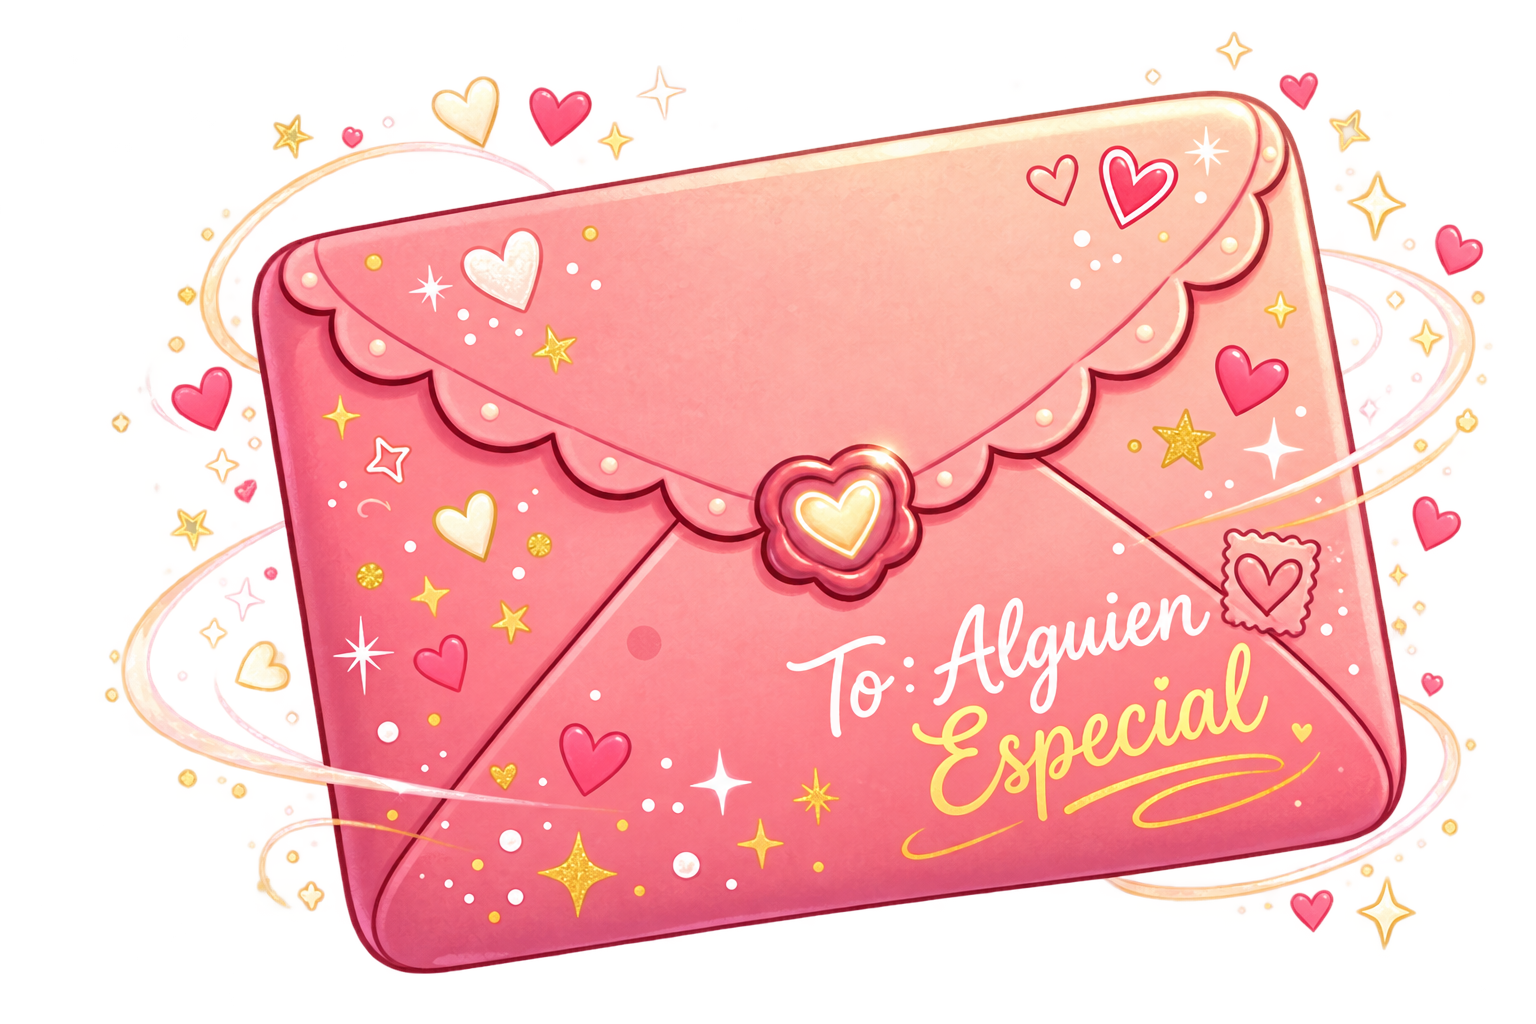
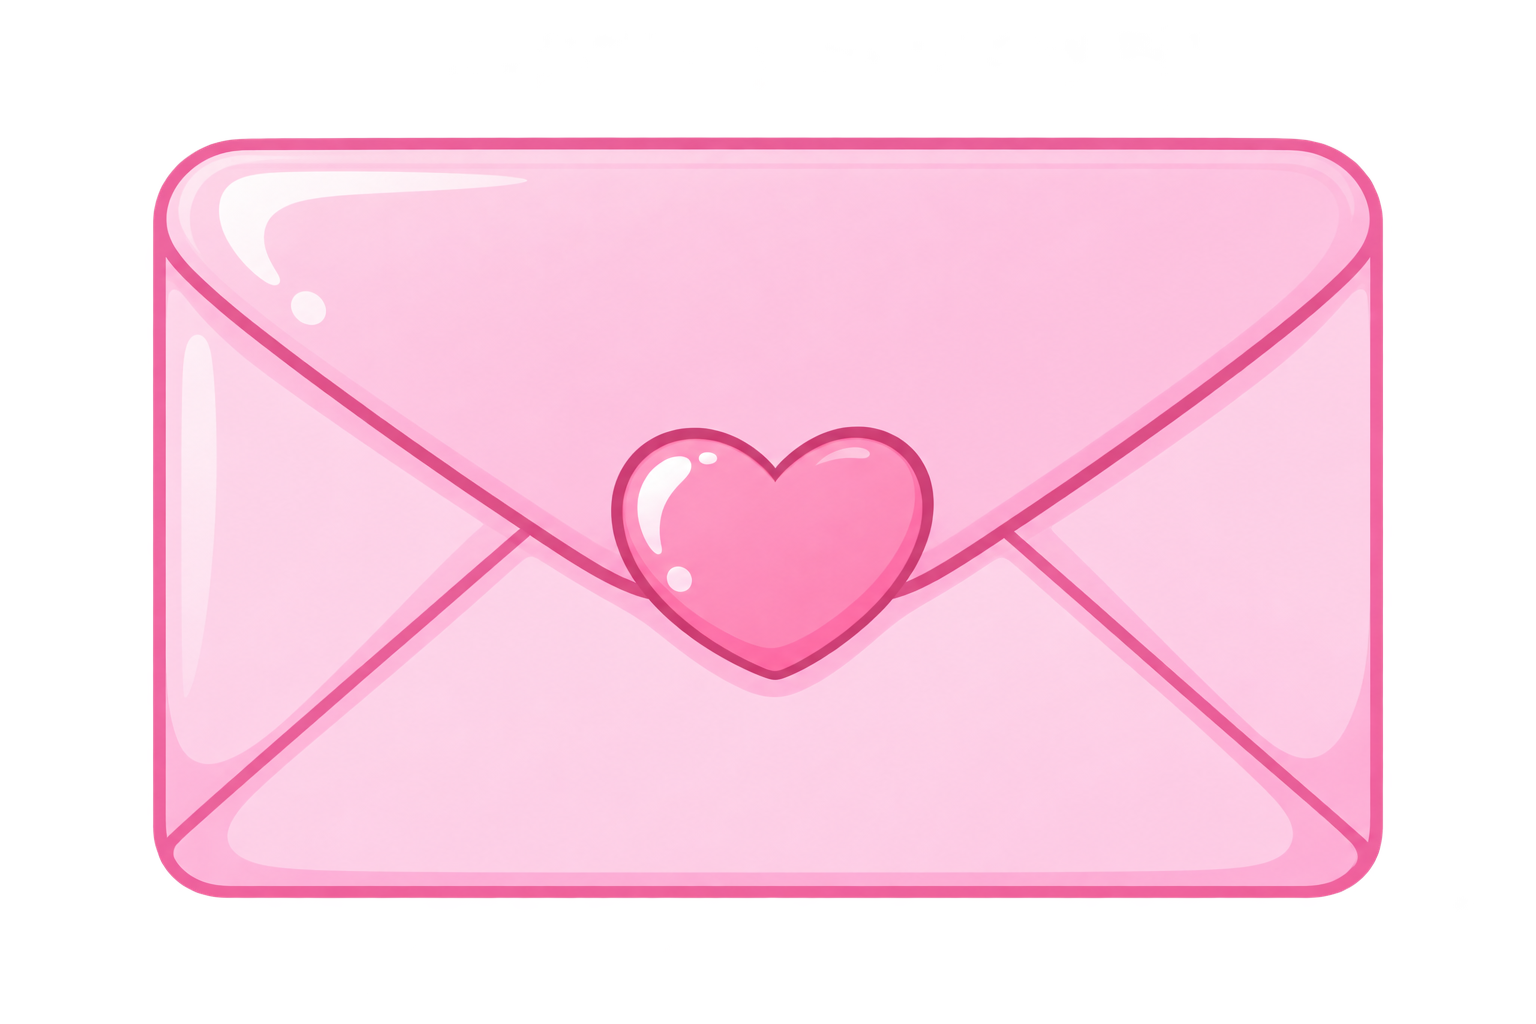
v2

diff --git a/index.html b/index.html
@@ -4,12 +4,13 @@
   <meta charset="utf-8">
   <meta name="viewport" content="width=device-width, initial-scale=1">
   <meta name="theme-color" content="#10152f">
-  <title>Una sorpresa de cumpleaños</title>
+  <title>Una sorpresa de cumplea&ntilde;os</title>
   <style>
     :root { color-scheme:dark; --ink:#fff8e9; --gold:#ffd36b; --pink:#ff8eae; }
     * { box-sizing:border-box }
     body { margin:0; min-height:100vh; overflow-x:hidden; color:var(--ink); font-family:system-ui,-apple-system,"Segoe UI",sans-serif; background:#050509; transition:background-color 1s,color 1s; }
     body.lights-on { color:#46354e; background-color:#17152f; background-image:url("assets/81db4998-a0b0-4de2-b821-03d702ead9ee.png"); background-position:center; background-size:cover; background-attachment:fixed; }
+    body.dedication-mode, body.flower-mode { color:#fff8e9; background:#050509; background-image:none; }
     main { position:relative; z-index:1; min-height:100vh; display:grid; place-items:center; padding:30px 18px 80px; text-align:center; }
     .room { width:min(100%,680px); }
     .decoration { position:fixed; z-index:0; visibility:hidden; opacity:0; pointer-events:none; user-select:none; transition:opacity 1s; }
@@ -20,9 +21,6 @@
     .intro { min-height:2em; margin:0 0 22px; color:#c9c9e6; font-size:clamp(1.1rem,4vw,1.55rem); line-height:1.7; opacity:0; transition:opacity .6s; }
     .intro.show { opacity:1; }
     .lights-on .intro { color:#795d80; }
-    h1 { margin:8px 0 18px; color:var(--gold); font-size:clamp(2.5rem,10vw,5.2rem); line-height:1; text-shadow:0 5px 30px #ffc85b55; visibility:hidden; opacity:0; transition:opacity .8s; }
-    .lights-on.show-letter h1 { visibility:visible; opacity:1; }
-    .lights-on h1 { color:#bc5d7c; }
     .lamp { display:block; width:clamp(100px,24vw,150px); height:clamp(100px,24vw,150px); margin:12px auto 4px; padding:12px; border:0; border-radius:50%; background:transparent; cursor:pointer; filter:drop-shadow(0 0 24px #ffe39a99); animation:swing 3s ease-in-out infinite alternate; transform-origin:top center; }
     .lamp img { display:block; width:100%; height:100%; object-fit:contain; }
     .lamp:hover { filter:drop-shadow(0 0 38px #ffe39aff); }
@@ -34,6 +32,8 @@
     .card-confetti { position:absolute; inset:-16%; width:132%; height:132%; object-fit:contain; opacity:.45; pointer-events:none; }
     .card-content { position:relative; z-index:1; }
     .card.show { opacity:1; transform:translateY(0) scale(1); }
+    .gift-button { display:flex; align-items:center; justify-content:center; gap:10px; margin:18px auto 0; padding:14px 26px!important; border:2px solid #ffe08a!important; color:#49374f!important; background:linear-gradient(135deg,#ffe08a,#ff83b4)!important; box-shadow:0 0 28px #ff83b477,0 10px 30px #0008; font-size:1.08rem!important; }
+    .gift-button img { width:30px; height:30px; object-fit:contain; }
     .cake-wrap { position:relative; width:clamp(100px,32vw,165px); height:clamp(100px,32vw,165px); margin:0 auto; animation:float 2.5s ease-in-out infinite; }
     .cake { display:block; width:100%; height:100%; object-fit:contain; }
     .party-hat { position:absolute; top:-17%; left:55%; width:38%; height:44%; object-fit:contain; transform:rotate(15deg); }
@@ -44,8 +44,12 @@
     .signature { margin:22px 0 0; color:#ffcf7b; font-style:italic; }
     .lights-on .signature { color:#94659a; }
     .lights-on .intro { width:fit-content; max-width:min(92%,520px); margin:0 auto 16px; padding:13px 20px; border:2px solid #fff; border-radius:24px; color:#694e70; background:#fff8f0ed; box-shadow:0 8px 25px #35224244; }
+    .invitation { display:flex; justify-content:center; gap:14px; margin:18px auto; }
+    .invitation button { min-width:100px; }
+    .primary { border:0!important; color:#49374f!important; background:linear-gradient(135deg,#ffe08a,#ff9db8)!important; box-shadow:0 8px 25px #ff9db833; }
+    #no { touch-action:manipulation; }
     .envelope-button { display:block; margin:8px auto 14px; padding:0!important; border:0!important; border-radius:22px!important; background:transparent!important; box-shadow:0 12px 32px #27133788; animation:appear .8s ease both; }
-    .envelope-button img { display:block; width:min(410px,82vw); height:auto; border-radius:22px; }
+    .envelope-button img { display:block; width:min(410px,82vw); max-height:56vh; object-fit:contain; border-radius:22px; }
     .envelope-button:hover { transform:translateY(-5px) scale(1.02)!important; }
     .lights-on.show-letter .envelope-button { display:none!important; }
     .actions { display:flex; justify-content:center; flex-wrap:wrap; gap:12px; margin-top:25px; }
@@ -59,6 +63,23 @@
     .lights-on .hint { color:#806d87; }
     .confetti { position:fixed; z-index:2; top:-24px; pointer-events:none; animation:fall linear forwards; }
     @keyframes fall { to { transform:translateY(110vh) rotate(720deg); opacity:.85 } }
+    .dedications, .flowers { width:min(100%,760px); margin:auto; padding:clamp(22px,6vw,48px) 18px; animation:appear .8s ease both; }
+    .dedications h2, .flowers h2 { color:#ffd36b; font-size:clamp(1.8rem,7vw,3rem); }
+    .dedication-note { margin:18px auto; padding:22px; border:1px solid #ffb3d366; border-radius:22px; background:linear-gradient(145deg,#ffffff12,#ff9ec512); box-shadow:0 12px 36px #0007; text-align:left; }
+    .dedication-note h3 { margin:0 0 10px; color:#ffabc9; }
+    .dedication-note p { margin:0; min-height:3em; line-height:1.8; white-space:pre-wrap; }
+    .flowers { display:flex; min-height:100vh; flex-direction:column; align-items:center; justify-content:center; }
+    .garden { display:flex; align-items:flex-end; justify-content:center; gap:clamp(8px,5vw,42px); width:100%; height:clamp(250px,55vh,430px); }
+    .lily { position:relative; width:clamp(82px,22vw,150px); height:88%; }
+    .stem { position:absolute; bottom:0; left:50%; width:7px; height:68%; border-radius:9px; background:linear-gradient(90deg,#24643d,#85c96a,#24643d); transform:rotate(var(--lean,0deg)); transform-origin:bottom; }
+    .leaf { position:absolute; bottom:26%; left:50%; width:clamp(35px,10vw,70px); height:22px; border-radius:100% 0 100% 0; background:linear-gradient(135deg,#9bd765,#287345); transform:rotate(var(--leaf-angle)); transform-origin:left center; }
+    .bloom { position:absolute; top:3%; left:50%; width:100%; aspect-ratio:1; transform:translateX(-50%); }
+    .petal { position:absolute; left:50%; top:50%; width:34%; height:56%; border-radius:55% 55% 48% 48%; background:linear-gradient(180deg,#fffdf6,#ffe4f0 75%,#f2a9c8); box-shadow:inset 0 0 12px #ffffffaa; transform-origin:50% 90%; transform:translate(-50%,-90%) rotate(var(--angle)) scale(.08); }
+    .flowers.open .petal { animation:open-petal .9s cubic-bezier(.2,.8,.2,1) forwards; animation-delay:var(--delay); }
+    @keyframes open-petal { to { transform:translate(-50%,-90%) rotate(var(--angle)) scale(1); } }
+    .pollen { position:absolute; z-index:2; top:47%; left:50%; width:15%; aspect-ratio:1; border-radius:50%; background:#f9c944; box-shadow:0 0 16px #ffd56a; transform:translate(-50%,-50%) scale(0); }
+    .flowers.open .pollen { animation:appear .5s ease 1.1s forwards; }
+    @media (prefers-reduced-motion:reduce) { .flowers.open .petal { animation-duration:.01ms; } }
     @media (prefers-reduced-motion:reduce) { *,*::before,*::after { animation-duration:.01ms!important; animation-iteration-count:1!important; scroll-behavior:auto!important; transition-duration:.01ms!important } }
     @media (max-width:600px) { .balloon { top:8%; width:clamp(70px,19vw,115px); opacity:.78; } .flag { width:38vw; } }
   </style>
@@ -72,23 +93,55 @@
     <section class="room" aria-live="polite">
       <p class="intro" id="intro" aria-live="polite"></p>
       <button class="lamp" id="lights" type="button" aria-label="Prender la luz" hidden><img src="assets/bulb.svg" alt="Foquito"></button>
-      <button class="envelope-button" id="envelope" type="button" aria-label="Abrir el sobre" hidden><img src="assets/sobre-magico.png" alt="Sobre mágico rosa; toca para abrirlo"></button>
-      <h1>¡Feliz cumpleaños!</h1>
+      <div class="invitation" id="invitation" hidden>
+        <button class="primary" id="yes" type="button">S&#237; &#128140;</button>
+        <button id="no" type="button">No </button>
+      </div>
+      <button class="envelope-button" id="envelope" type="button" aria-label="Abrir la carta" hidden><img src="assets/sobre-magico.png" alt="Una carta rosa para Kamila; toca para abrirla"></button>
       <article class="card" id="card">
         <img class="card-confetti" src="assets/confetti.svg" alt="" aria-hidden="true">
         <div class="card-content">
-          <div class="cake-wrap"><img class="cake" src="assets/cake.svg" alt="Pastel de cumpleaños"><img class="party-hat" src="assets/bday-cap.svg" alt=""></div>
-          <div class="recipient" id="recipient">¡Feliz cumpleaños, Kamila!</div>
-          <p class="message">Espero que hoy esté lleno de sonrisas, abrazos y momentos tan bonitos como tú. Que todos tus sueños se hagan realidad. ¡Te quiero mucho! ✨</p>
-          <p class="signature">Con cariño, Traposito 💛</p>
+          <div class="cake-wrap"><img class="cake" src="assets/cake.svg" alt="Pastel de cumplea&ntilde;os"><img class="party-hat" src="assets/bday-cap.svg" alt=""></div>
+          <div class="recipient" id="recipient">&#161;Feliz cumplea&ntilde;os, Kamila!</div>
+          <p class="message">Espero que hoy est&eacute; lleno de sonrisas, abrazos y momentos tan bonitos como t&uacute;. Que todos tus sue&ntilde;os se hagan realidad. &#161;Te quiero mucho! &#10024;</p>
+          <p class="signature">Con cari&ntilde;o, Traposito &#128155;</p>
         </div>
       </article>
       <div class="actions">
-        <button id="party" type="button" hidden><img class="button-icon" src="assets/gift.svg" alt=""> ¡Que empiece la fiesta!</button>
+        <button class="gift-button" id="party" type="button" hidden><img src="assets/gift.svg" alt=""> Un regalito m&aacute;s</button>
       </div>
       <p class="hint" id="hint" hidden>Haz clic en el foquito para prenderla.</p>
     </section>
+    <section class="dedications" id="dedications" hidden>
+      <h2>Unas palabras para ti </h2>
+      <article class="dedication-note"><h3>De Anyeli</h3><p>Escribe aqu&iacute; la dedicatoria de Anyeli.</p></article>
+      <article class="dedication-note"><h3>De Alonso</h3><p>Escribe aqu&iacute; la dedicatoria de Alonso.</p></article>
+      <article class="dedication-note"><h3>De Susan</h3><p>Feliz cumpleaños hermosa que la pases increíble hoy y siempre 🎂</p></article>
+      <button class="primary" id="flowers-button" type="button">Ver tus flores &#127800;</button>
+    </section>
+    <section class="flowers" id="flowers" hidden>
+      <h2>Para ti, Kamila &#127800;</h2>
+      <div class="garden" aria-label="Tres lirios abriendose">
+        <div class="lily"><span class="stem"></span><span class="leaf" style="--leaf-angle:-35deg"></span><div class="bloom"></div></div>
+        <div class="lily"><span class="stem"></span><span class="leaf" style="--leaf-angle:25deg"></span><div class="bloom"></div></div>
+        <div class="lily"><span class="stem"></span><span class="leaf" style="--leaf-angle:-25deg"></span><div class="bloom"></div></div>
+      </div>
+    </section>
   </main>
   <script src="js/app.js" defer></script>
+  <script>
+    document.querySelectorAll('.bloom').forEach((bloom) => {
+      for (let i = 0; i < 6; i++) {
+        const petal = document.createElement('span');
+        petal.className = 'petal';
+        petal.style.setProperty('--angle', `${i * 60}deg`);
+        petal.style.setProperty('--delay', `${i * 0.09}s`);
+        bloom.append(petal);
+      }
+      const pollen = document.createElement('span');
+      pollen.className = 'pollen';
+      bloom.append(pollen);
+    });
+  </script>
 </body>
 </html>

diff --git a/js/app.js b/js/app.js
@@ -1,10 +1,15 @@
-// Personaliza el nombre y el mensaje desde index.html.
-const colors = ['#ff8eae', '#ffd36b', '#9fe3cf', '#bca0f5', '#ffad75'];
 const lightsButton = document.querySelector('#lights');
 const partyButton = document.querySelector('#party');
 const card = document.querySelector('#card');
 const intro = document.querySelector('#intro');
 const envelope = document.querySelector('#envelope');
+const invitation = document.querySelector('#invitation');
+const yesButton = document.querySelector('#yes');
+const noButton = document.querySelector('#no');
+const hint = document.querySelector('#hint');
+const room = document.querySelector('.room');
+const dedications = document.querySelector('#dedications');
+const flowers = document.querySelector('#flowers');
 
 function say(text) {
   intro.classList.remove('show');
@@ -14,48 +19,74 @@ function say(text) {
   }, 80);
 }
 
-// La historia empieza en la oscuridad y revela cada frase poco a poco.
-window.setTimeout(() => say('¡Hey!'), 3000);
-window.setTimeout(() => say('Está oscuro aquí...'), 7000);
+window.setTimeout(() => say('\u00a1Hey!'), 3000);
+window.setTimeout(() => say('Est\u00e1 oscuro aqu\u00ed...'), 7000);
 window.setTimeout(() => {
-  say('¿Puedes prender la luz?');
+  say('\u00bfPuedes prender la luz?');
   lightsButton.hidden = false;
-  document.querySelector('#hint').hidden = false;
+  hint.hidden = false;
 }, 9000);
 
 lightsButton.addEventListener('click', () => {
   document.body.classList.add('lights-on');
-  intro.textContent = 'Hola Kamila, soy Traposito. Tengo algo para ti.';
-  intro.classList.add('show');
-  const hint = document.querySelector('#hint');
-  hint.textContent = 'Toca el sobre para abrirlo.';
+  say('Hola Kamila, soy Traposito.');
   hint.hidden = true;
   lightsButton.hidden = true;
   window.setTimeout(() => {
-    envelope.hidden = false;
-    hint.hidden = false;
-  }, 2500);
+    say('Hay una carta para ti, \u00bfquieres leerla?');
+    invitation.hidden = false;
+  }, 3000);
+});
+
+function moveNoButton() {
+  const margin = 12;
+  const maxX = Math.max(margin, window.innerWidth - noButton.offsetWidth - margin);
+  const maxY = Math.max(margin, window.innerHeight - noButton.offsetHeight - margin);
+  noButton.style.position = 'fixed';
+  noButton.style.left = `${margin + Math.random() * (maxX - margin)}px`;
+  noButton.style.top = `${margin + Math.random() * (maxY - margin)}px`;
+  noButton.style.zIndex = '5';
+}
+
+noButton.addEventListener('pointerenter', moveNoButton);
+noButton.addEventListener('pointerdown', (event) => {
+  event.preventDefault();
+  moveNoButton();
+});
+noButton.addEventListener('click', moveNoButton);
+window.addEventListener('resize', () => {
+  if (noButton.style.position === 'fixed') moveNoButton();
+});
+
+yesButton.addEventListener('click', () => {
+  invitation.hidden = true;
+  envelope.hidden = false;
+  hint.textContent = 'Toca la carta para abrirla.';
+  hint.hidden = false;
 });
 
 envelope.addEventListener('click', () => {
   document.body.classList.add('show-letter');
-  intro.textContent = '¡Sorpresa, Kamila!';
+  intro.textContent = '';
+  intro.classList.remove('show');
   card.classList.add('show');
-  document.querySelector('#hint').hidden = true;
+  hint.hidden = true;
   partyButton.hidden = false;
 });
 
 partyButton.addEventListener('click', () => {
-  document.querySelector('#hint').textContent = '¡Que todos tus deseos se hagan realidad! 🌟';
-  for (let i = 0; i < 90; i++) {
-    const piece = document.createElement('span');
-    piece.className = 'confetti';
-    piece.textContent = Math.random() > .5 ? '✦' : '●';
-    piece.style.left = Math.random() * 100 + 'vw';
-    piece.style.color = colors[Math.floor(Math.random() * colors.length)];
-    piece.style.fontSize = (9 + Math.random() * 15) + 'px';
-    piece.style.animationDuration = (2.2 + Math.random() * 2.8) + 's';
-    document.body.append(piece);
-    piece.addEventListener('animationend', () => piece.remove(), { once:true });
-  }
+  document.body.classList.remove('lights-on', 'show-letter');
+  document.body.classList.add('dedication-mode');
+  room.hidden = true;
+  dedications.hidden = false;
+  window.scrollTo({ top:0, behavior:'smooth' });
+});
+
+document.querySelector('#flowers-button').addEventListener('click', () => {
+  document.body.classList.remove('dedication-mode');
+  document.body.classList.add('flower-mode');
+  dedications.hidden = true;
+  flowers.hidden = false;
+  window.scrollTo({ top:0, behavior:'smooth' });
+  window.setTimeout(() => flowers.classList.add('open'), 80);
 });
